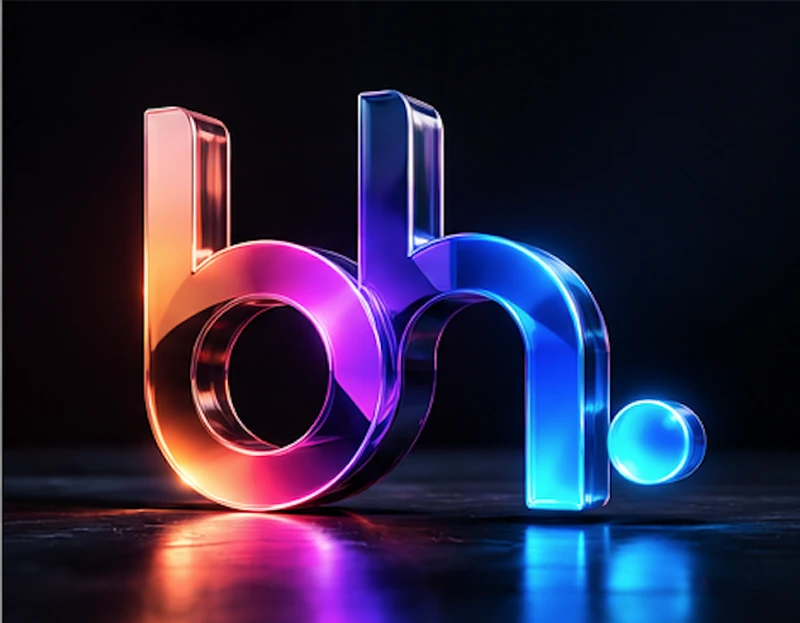
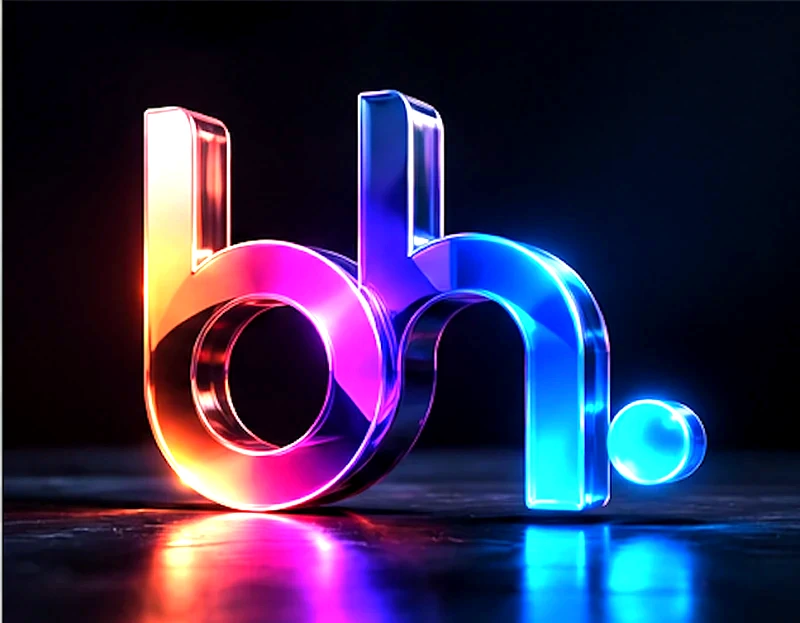
Add files via upload

diff --git a/app/contact/page.js b/app/contact/page.js
@@ -13,8 +13,15 @@ const CONTACT_EMAIL = "hello@beyondhello.studio";
 
 export default function ContactPage() {
   return (
-    <main className="py-14">
-      <div>
+    <main className="relative overflow-hidden py-14">
+      {/* Background depth: soft colour glows sitting behind the copy, same
+          treatment used on the homepage, so this page doesn't feel flat
+          against the plain dark background. */}
+      <div className="glow-blob pointer-events-none absolute -left-24 -top-10 h-80 w-80 rounded-full bg-pink opacity-20" />
+      <div className="glow-blob pointer-events-none absolute -right-20 top-24 h-72 w-72 rounded-full bg-blue opacity-20" />
+      <div className="glow-blob pointer-events-none absolute bottom-0 left-1/4 h-64 w-64 rounded-full bg-gradient-to-br from-violet via-pink to-yellow opacity-10" />
+
+      <div className="relative">
         <span className="eyebrow">Contact</span>
         <h1 className="mt-5 font-body text-4xl font-extrabold uppercase leading-[1.05] tracking-tight sm:text-5xl">
           Say <span className="text-gradient">hello.</span>
@@ -39,7 +46,7 @@ export default function ContactPage() {
         </div>
       </div>
 
-      <section className="mt-20 border-t border-line pt-16">
+      <section className="relative mt-20 border-t border-line pt-16">
         <h2 className="font-body text-xl font-bold uppercase tracking-tight">Send a message</h2>
         <p className="mt-3 max-w-xl text-sm text-muted">
           Tell us a bit about what you need. We reply by email within 1 business day.

diff --git a/components/Footer.js b/components/Footer.js
@@ -35,7 +35,7 @@ export default function Footer() {
         src="/images/brand/bh-chrome-render.webp"
         alt=""
         aria-hidden="true"
-        className="pointer-events-none absolute right-0 top-4 hidden w-40 opacity-60 sm:block lg:w-52"
+        className="pointer-events-none absolute right-0 top-4 hidden w-40 opacity-90 sm:block lg:w-52"
       />
       <Image
         src="/images/logo-main.webp"
